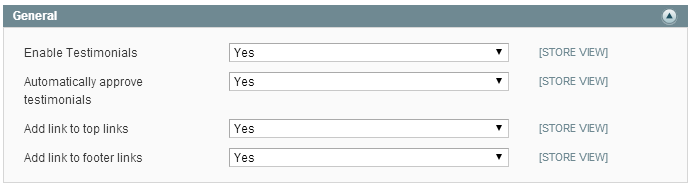
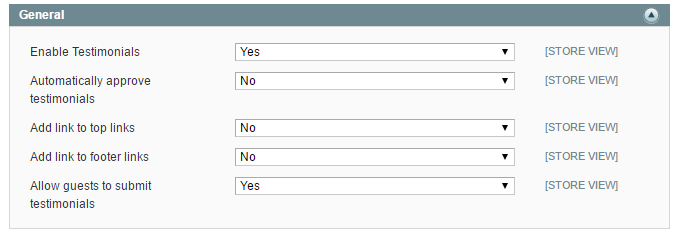
Testimonials M1 docs updated

diff --git a/m1/extensions/testimonials/index.md b/m1/extensions/testimonials/index.md
@@ -26,6 +26,7 @@ and enable admin notification about new testimonial submission.
 5. [Widgets and Blocks](widgets-and-blocks/)
 6. [Use Cases](#use-cases)
  - [Testimonial submit form captcha](#testimonial-submit-form-captcha)
+ - [Import Testimonials from product reviews](#import-testimonials-from-product-reviews)
 
 ## Features
 
@@ -35,6 +36,8 @@ and enable admin notification about new testimonial submission.
 - Customize testimonials submit form layout, select fields which can be filled
 by the user and set up Thanks message for testimonial submit
 - Notify administrator by email when new testimonial was posted
+- Disallow guests to submit testimonials
+- Import testimonials from product reviews
 
 ## Settings
 
@@ -58,6 +61,10 @@ Place link to testimonials list in top links block.
 ##### Add link to footer links
 
 Place link to testimonials list in footer links block.
+
+##### Allow guests to submit testimonials
+
+Disable if you want to allow to write testimonials for registered customers only.
 
 ### Testimonials List Section
 
@@ -146,3 +153,18 @@ Customers > Customer Configuration > CAPTCHA`, select `Testimonials Form` in
 `Forms` field and press `Save config` button.
 
 ![Testimonial submit form captcha](/images/testimonials/testimonial-submit-form-captcha.png)
+
+##### Import Testimonials from product reviews
+
+You can save product reviews as testimonials on
+`Catalog > Reviews and Ratings > Customer Reviews > All Reviews` page.
+
+> **Only reviews from registered customers can be saved as testimonials.**
+
+You can save separate review from review edit form using `Copy to Testimonials` button:
+
+![Save product review as testimonial](/images/testimonials/copy-from-review.png)
+
+Also you can export multiple reviews using `Copy to Testimonials` grid action:
+
+![Save multiple reviews as testimonials](/images/testimonials/reviews-grid-export.png)
